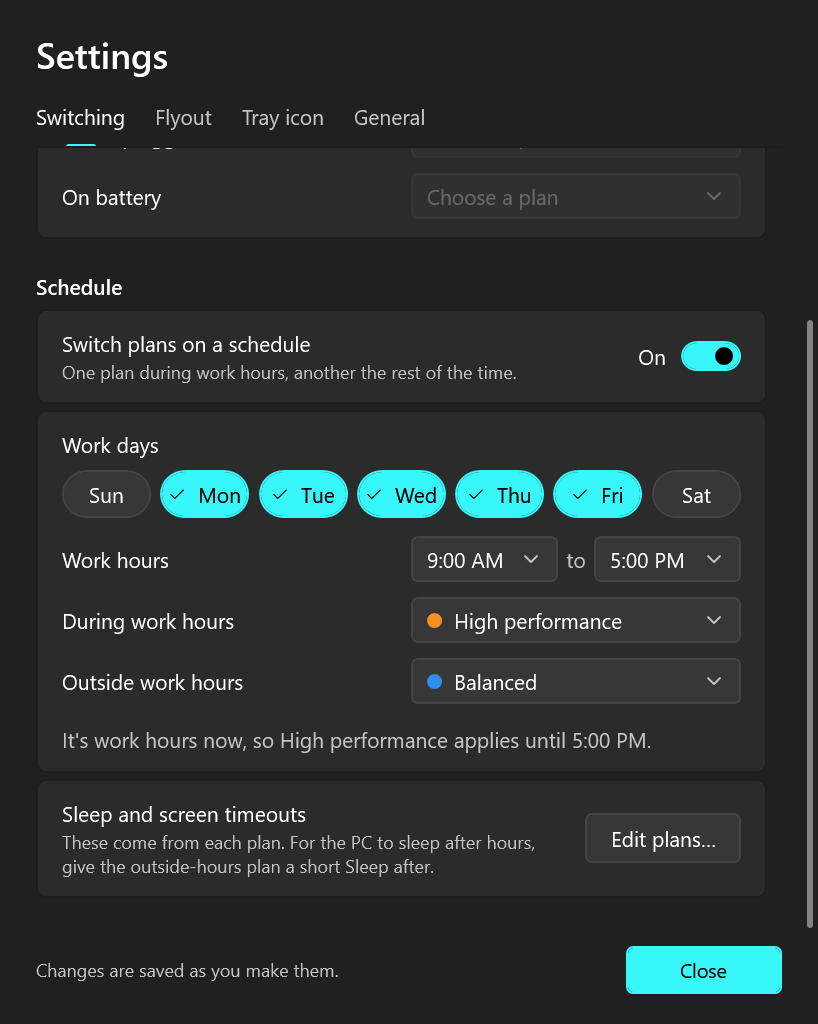
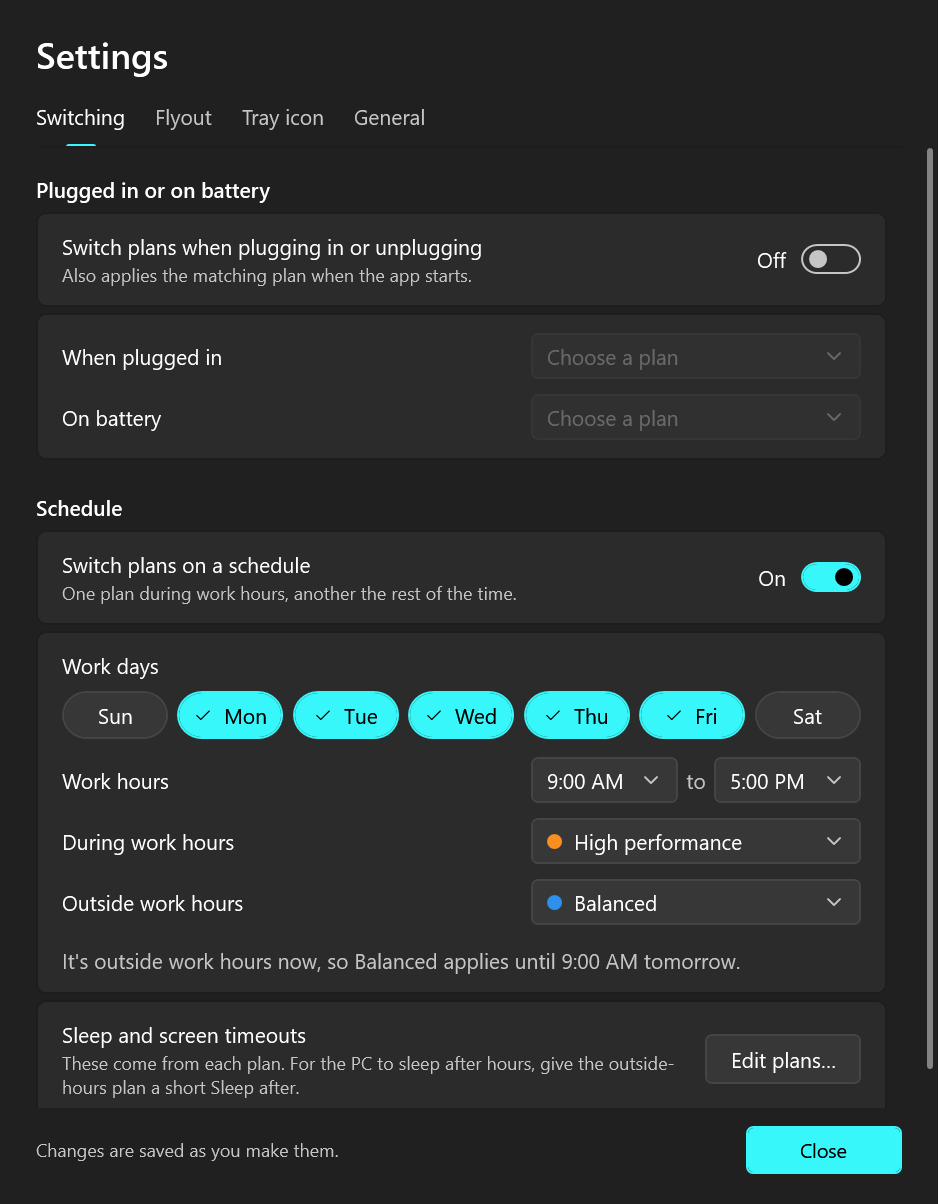
Make Settings wider and taller

diff --git a/PowerSwitcher.TrayApp/SettingsWindow.xaml b/PowerSwitcher.TrayApp/SettingsWindow.xaml
@@ -4,8 +4,9 @@
         xmlns:local="clr-namespace:PowerSwitcher.TrayApp"
         Title="PowerPlanSwitcher Settings"
         Icon="AppIcon.ico"
-        Width="560"
-        Height="720"
+        Width="640"
+        Height="840"
+        MaxHeight="{x:Static SystemParameters.MaximizedPrimaryScreenHeight}"
         ResizeMode="NoResize"
         WindowStartupLocation="CenterScreen"
         ShowInTaskbar="True"

diff --git a/README.md b/README.md
@@ -53,7 +53,7 @@ Right-click the tray icon → **Settings…**. Changes apply and save immediatel
 <p>
   <picture>
     <source media="(prefers-color-scheme: dark)" srcset="ReadmeAssets/settings-dark.png">
-    <img src="ReadmeAssets/settings-light.png" width="547" alt="The Settings window's Switching tab: the work-hours schedule with work days, hours, and a plan for work hours and one for the rest of the time">
+    <img src="ReadmeAssets/settings-light.png" width="625" alt="The Settings window's Switching tab: the work-hours schedule with work days, hours, and a plan for work hours and one for the rest of the time">
   </picture>
   &nbsp;
   <picture>
